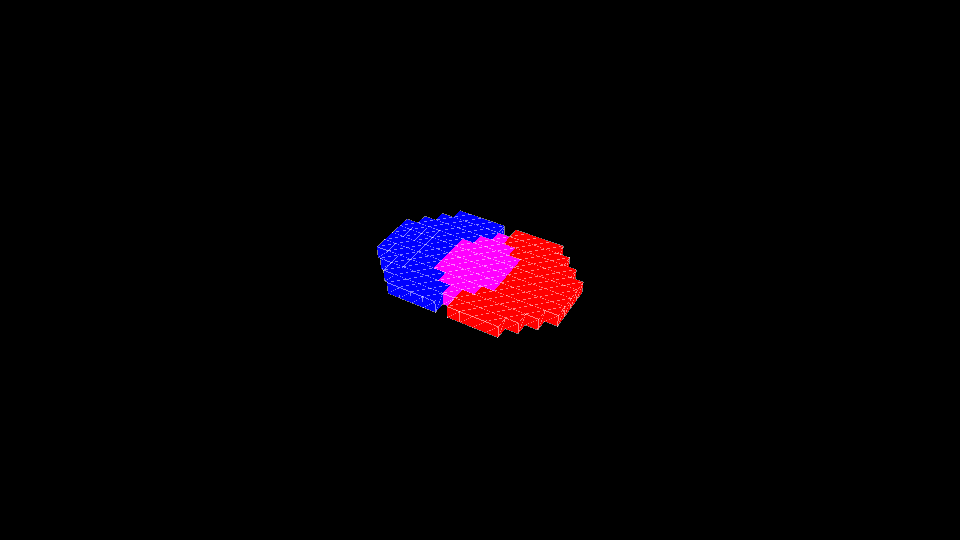
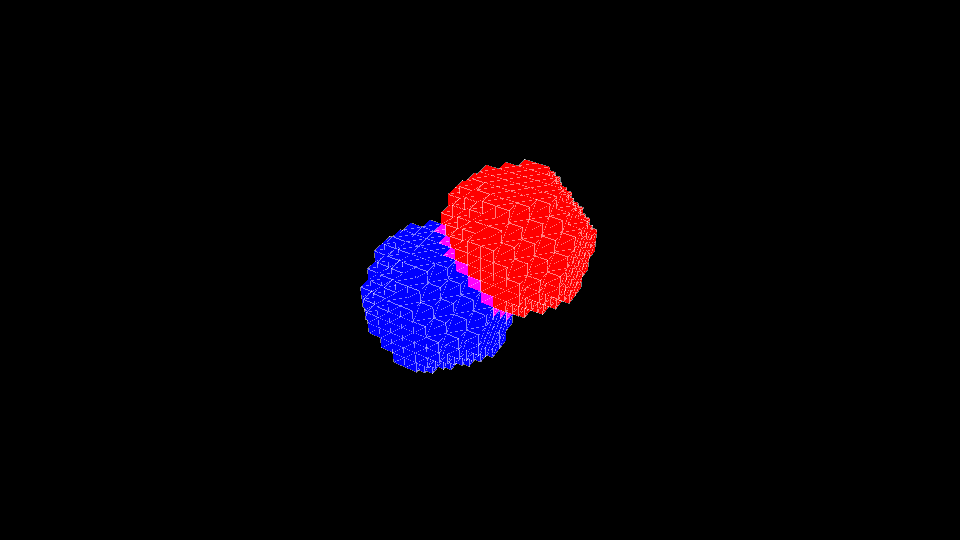
Added automatic workspace resizing
- Object coordinates are now considered when performing solid operations
- Object dimensions no longer need to match
- New 3D demo models

Changed region(s): [[0.375, 0.2963, 0.625, 0.7111]]

diff --git a/VoxelModel.py b/VoxelModel.py
@@ -8,6 +8,35 @@ from pyvox.parser import VoxParser
 from materials import materials
 
 """
+Function to make object dimensions compatible for solid body operations.  Takes location coordinates into account.
+"""
+def alignDims(modelA, modelB):
+    xMaxA = modelA.x + len(modelA.model[0, 0, :, 0])
+    yMaxA = modelA.y + len(modelA.model[:, 0, 0, 0])
+    zMaxA = modelA.z + len(modelA.model[0, :, 0, 0])
+
+    xMaxB = modelB.x + len(modelB.model[0, 0, :, 0])
+    yMaxB = modelB.y + len(modelB.model[:, 0, 0, 0])
+    zMaxB = modelB.z + len(modelB.model[0, :, 0, 0])
+
+    xNew = min(modelA.x, modelB.x)
+    yNew = min(modelA.y, modelB.y)
+    zNew = min(modelA.z, modelB.z)
+
+    xMaxNew = max(xMaxA, xMaxB)
+    yMaxNew = max(yMaxA, yMaxB)
+    zMaxNew = max(zMaxA, zMaxB)
+
+    modelANew = np.zeros((yMaxNew - yNew, zMaxNew - zNew, xMaxNew - xNew, len(modelA.model[0, 0, 0, :])))
+    modelBNew = np.zeros((yMaxNew - yNew, zMaxNew - zNew, xMaxNew - xNew, len(modelB.model[0, 0, 0, :])))
+
+    modelANew[(modelA.y - yNew):(yMaxA - yNew), (modelA.z - zNew):(zMaxA - zNew), (modelA.x - xNew):(xMaxA - xNew), :] = modelA.model
+    modelBNew[(modelB.y - yNew):(yMaxB - yNew), (modelB.z - zNew):(zMaxB - zNew), (modelB.x - xNew):(xMaxB - xNew), :] = modelB.model
+
+    return VoxelModel(modelANew, xNew, yNew, zNew), VoxelModel(modelBNew, xNew, yNew, zNew)
+
+
+"""
 VoxelModel Class
 
 Initialized from a model array or file and position coordinates
@@ -48,17 +77,19 @@ class VoxelModel:
         return cls(new_model, x_coord, y_coord, z_coord)
 
     def union(self, model_to_add):
-        new_model = self.model + model_to_add.model
+        a, b = alignDims(self, model_to_add)
+        new_model = a.model + b.model
         new_model[new_model > 1] = 1
-        return VoxelModel(new_model)
+        return VoxelModel(new_model, a.x, a.y, a.z)
 
     def __add__(self, other):
         return self.union(other)
 
     def difference(self, model_to_sub):
-        new_model = self.model - model_to_sub.model
+        a, b = alignDims(self, model_to_sub)
+        new_model = a.model - b.model
         new_model[new_model < 0] = 0
-        return VoxelModel(new_model)
+        return VoxelModel(new_model, a.x, a.y, a.z)
 
     def __sub__(self, other):
         return self.difference(other)

diff --git a/Mesh.py b/Mesh.py
@@ -15,7 +15,7 @@ def check_adjacent_x(input_model, x_coord, y_coord, z_coord, x_dir):
     else:
         x_coord_new = x_coord-1
 
-    if (x_coord_new < x_len) and (x_coord_new >= 0) and (input_model[y_coord, z_coord, x_coord_new, :] != input_model[y_coord, z_coord, x_coord, :]).all():
+    if (x_coord_new < x_len) and (x_coord_new >= 0) and not np.allclose(input_model[y_coord, z_coord, x_coord_new, :], input_model[y_coord, z_coord, x_coord, :]):
         return True
     elif (x_coord_new >= x_len) or (x_coord_new < 0):
         return True
@@ -30,7 +30,7 @@ def check_adjacent_y(input_model, x_coord, y_coord, z_coord, y_dir):
     else:
         y_coord_new = y_coord - 1
 
-    if (y_coord_new < y_len) and (y_coord_new >= 0) and (input_model[y_coord_new, z_coord, x_coord, :] != input_model[y_coord, z_coord, x_coord, :]).all():
+    if (y_coord_new < y_len) and (y_coord_new >= 0) and not np.allclose(input_model[y_coord_new, z_coord, x_coord, :], input_model[y_coord, z_coord, x_coord, :]):
         return True
     elif (y_coord_new >= y_len) or (y_coord_new < 0):
         return True
@@ -45,7 +45,7 @@ def check_adjacent_z(input_model, x_coord, y_coord, z_coord, z_dir):
     else:
         z_coord_new = z_coord - 1
 
-    if (z_coord_new < z_len) and (z_coord_new >= 0) and (input_model[y_coord, z_coord_new, x_coord, :] != input_model[y_coord, z_coord, x_coord, :]).all():
+    if (z_coord_new < z_len) and (z_coord_new >= 0) and not np.allclose(input_model[y_coord, z_coord_new, x_coord, :], input_model[y_coord, z_coord, x_coord, :]):
         return True
     elif (z_coord_new >= z_len) or (z_coord_new < 0):
         return True

diff --git a/VoxelModel-Class-Demos/bool-demo.py b/VoxelModel-Class-Demos/bool-demo.py
@@ -14,8 +14,8 @@ if __name__=='__main__':
     app1 = qg.QApplication(sys.argv)
 
     # Import models ##############################################################
-    model1 = VoxelModel.fromFile('square-blue-L.vox')
-    model2 = VoxelModel.fromFile('square-red-R.vox')
+    model1 = VoxelModel.fromFile('sphere-blue.vox', 0, 0, 0)
+    model2 = VoxelModel.fromFile('sphere-red.vox', -4, 4, 4)
 
     # Perform Boolean Operations ###############################################
     modelAdd = model1 + model2
@@ -27,7 +27,7 @@ if __name__=='__main__':
 
     # Create plot
     plot1 = Plot(mesh1)
-    plot2 = Plot(mesh2)
+    #plot2 = Plot(mesh2)
 
     # Process all events
     app1.processEvents()
